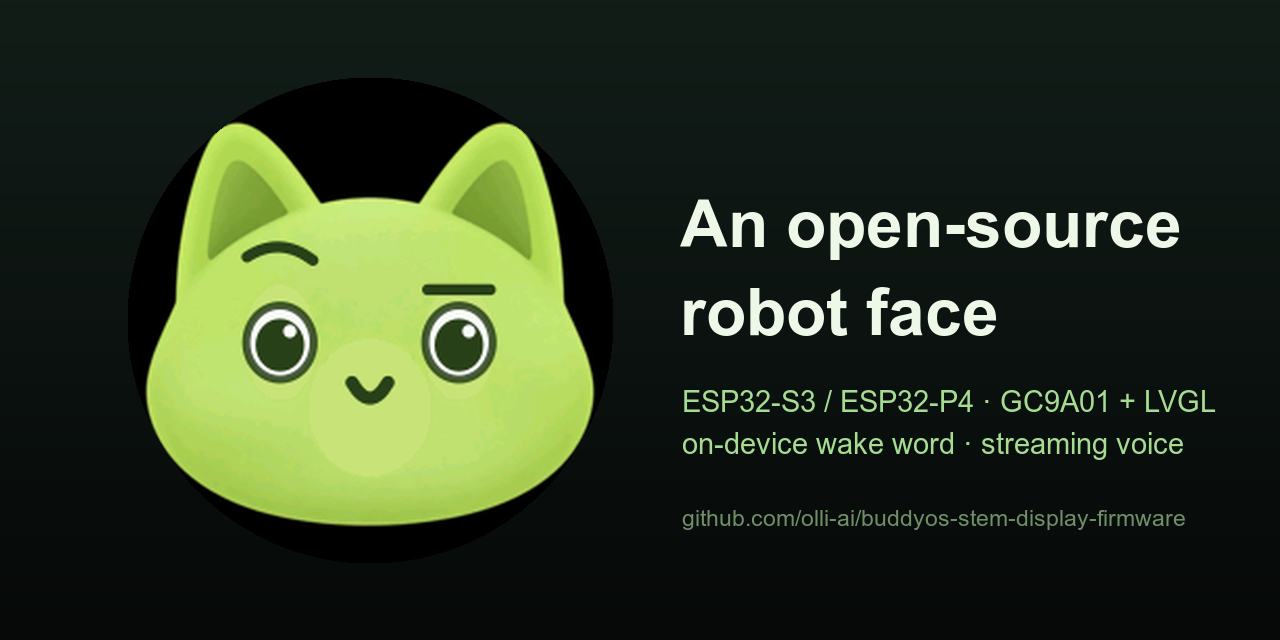
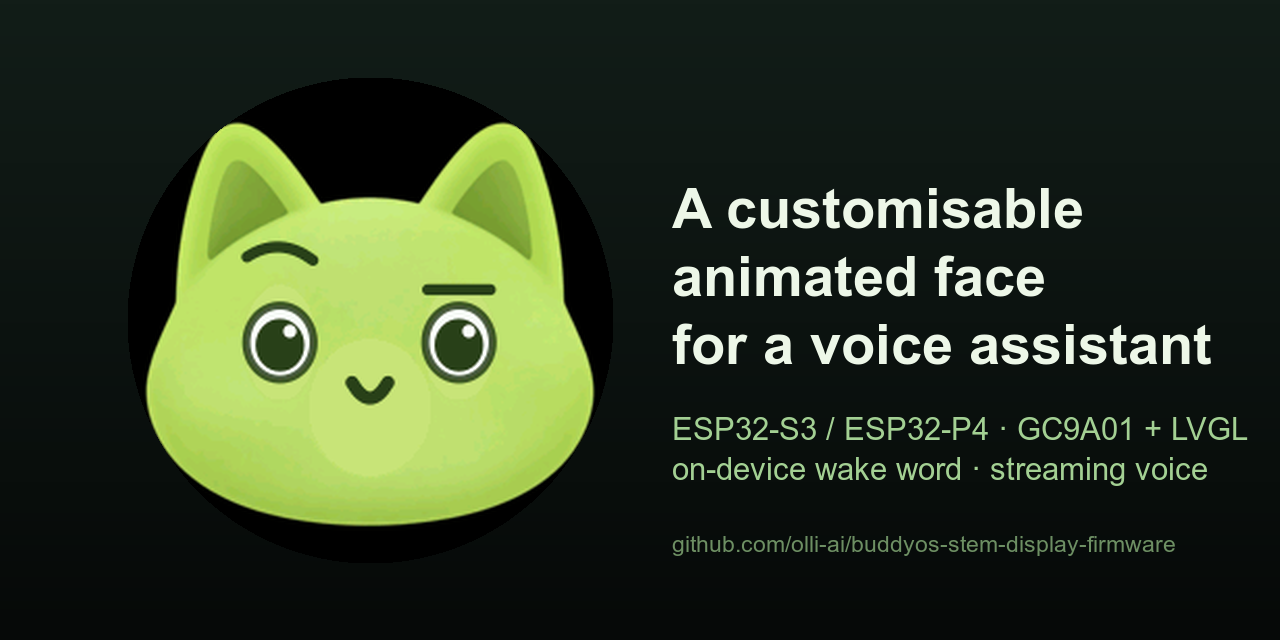
The title says what it is, not what it is made of
"An open-source robot face" named the licence and a toy. What the firmware
actually gives you is a face you choose the look of, animated, in front of a
voice assistant — so the heading, and the social card that carries it, say that
instead. The repo description now opens on the same words.

Changed region(s): [[0.5, 0.2812, 0.9688, 0.75], [0.5312, 0.7812, 0.9375, 0.875]]

diff --git a/README.md b/README.md
@@ -2,7 +2,7 @@
 
 <img src="docs/media/face.gif" alt="The Buddy face: idle, listening, speaking with lip-sync, thinking" width="320">
 
-# An open-source robot face
+# A customisable animated face for a voice assistant
 
 **ESP-IDF firmware for a round screen that looks back at you.** A 1.28" GC9A01 on an
 ESP32-S3 — or a 4" MIPI-DSI panel on an ESP32-P4 — running an animated LVGL face with
